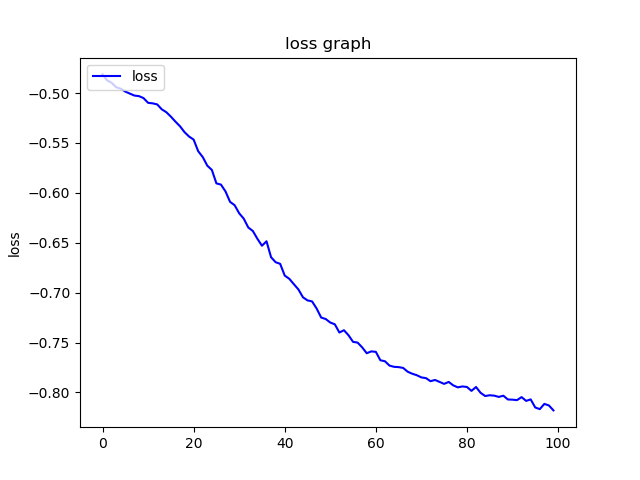
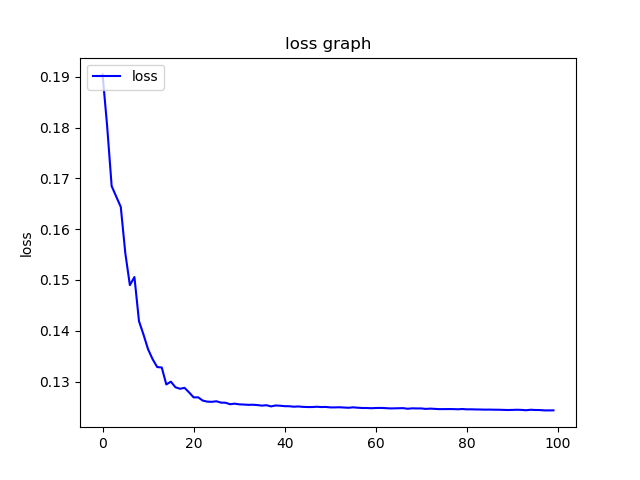
tensor board added

diff --git a/11_Tensorboard.py b/11_Tensorboard.py
@@ -1,0 +1,167 @@
+
+#==============================================
+#Tensorboard를 테스트 해 본다.
+#설치
+#pip install tensorboard
+#pip install tensorboardX
+#https://seongkyun.github.io/others/2019/05/11/pytorch_tensorboard/
+#https://jangjy.tistory.com/343
+
+#tensorboard --logdir = ./runs
+
+import torch
+
+import torch.nn as nn
+import torchvision.models as models
+from torch.autograd import Variable
+from torchsummary import summary
+
+
+import matplotlib.pyplot as plt
+import numpy as np
+
+from tensorboardX import SummaryWriter
+
+#1) 텐서보드 생성
+tf_summary = SummaryWriter()
+
+#cuda로 보낸다
+device = torch.device('cuda' if torch.cuda.is_available() else 'cpu')
+
+
+print('========VGG 테스트 =========')
+print("========입력데이터 생성 [batch, color, image x, image y]=========")
+#이미지 사이즈를 어떻게 잡아도 vgg는 다 소화한다.
+
+
+#그래프 저장용
+loss_graph = []
+iter_graph = []
+
+
+
+#==========================================
+#1) 모델 생성
+model = models.vgg16(pretrained=True).to(device)
+
+
+print(model)
+
+
+
+
+print("========맨 뒤에 모듈 추가=========")
+my_layer2 = nn.Sigmoid()
+model.classifier.add_module("7", my_layer2)
+
+
+print(model)
+
+print('========= Summary로 보기 =========')
+#Summary 때문에 cuda, cpu 맞추어야 함
+#뒤에 값이 들어갔을 때 내부 변환 상황을 보여줌
+#adaptive average pool이 중간에서 최종값을 바꿔주고 있음
+summary(model, (3, 100, 100))
+
+
+
+
+
+#2) loss function
+#꼭 아래와 같이 2단계, 클래스 선언 후, 사용
+#criterion = nn.MSELoss()
+criterion = nn.SmoothL1Loss()
+#criterion = nn.L1Loss()
+#criterion = nn.Tanh()
+#criterion = nn.KLDivLoss()
+
+#criterion = nn.NLLLoss()
+#criterion = nn.CrossEntropyLoss()
+#criterion = nn.MarginRankingLoss()
+#criterion = nn.CosineEmbeddingLoss()
+
+
+#3) activation function
+learning_rate = 1e-4
+#optimizer = torch.optim.Adam(model.parameters(), lr=learning_rate)
+optimizer = torch.optim.SGD(model.parameters(), lr=0.01, momentum=0.9)
+#optimizer = torch.optim.Adagrad(model.parameters(), lr=0.01)
+
+
+#모델이 학습 모드라고 알려줌
+model.train()
+
+#----------------------------
+#epoch training
+for i in range (100):
+
+    #옵티마이저 초기화
+    optimizer.zero_grad()
+
+    #입력값 생성하고
+    a = torch.randn(12,3,100,100).to(device)
+
+    #모델에 넣은다음
+    result = model(a)
+
+    #결과와 동일한 shape을 가진 Ground-Truth 를 읽어서
+    #target  = torch.randn_like(result)
+
+    #타겟값을 1로 바꾸어서 네트워크가 무조건 1만 출력하도록 만든다.
+    target  = torch.ones_like(result)
+
+    '''
+    print(target.dtype)
+    target = target.long()
+    target = target.to(device)
+    '''
+
+    #네트워크값과의 차이를 비교
+    loss = criterion(result, target).to(device)
+
+    loss_graph.append(loss)
+    iter_graph.append(i)
+
+
+    #=============================
+    #loss는 텐서이므로 item()
+    print("epoch: {} loss:{} ".format(i, loss.item()))
+
+
+
+
+
+    #================================
+    #2) 텐서보드 값 입력
+    tf_summary.add_scalar('loss/loss_a', loss.item(), i)
+    tf_summary.add_scalar('learning_rate', learning_rate, i)
+
+
+
+
+    #loss diff값을 뒤로 보내서 grad에 저장하고
+    loss.backward()
+
+    #저장된 grad값을 기준으로 activation func을 적용한다.
+    optimizer.step()
+
+
+#3) 텐서보드 꼭 닫기
+tf_summary.close()
+
+#print("=========== 학습된 파라미터만 저장 ==============")
+#torch.save(model.state_dict(), 'trained_model.pt')
+
+#모델이 바뀌었으므로 모델 전체를 저장
+#print("=========== 전체모델 저장 : VGG 처럼 모델 전체 저장==============")
+#torch.save(model, 'trained_model_all.pt')
+
+
+#loss 그래프 출력
+plt.plot(iter_graph, loss_graph, '-b', label='loss')
+plt.title('loss graph')
+plt.ylabel('loss')
+plt.legend(loc='upper left')
+plt.savefig("result6.png")  # should before show method
+plt.show()
+
